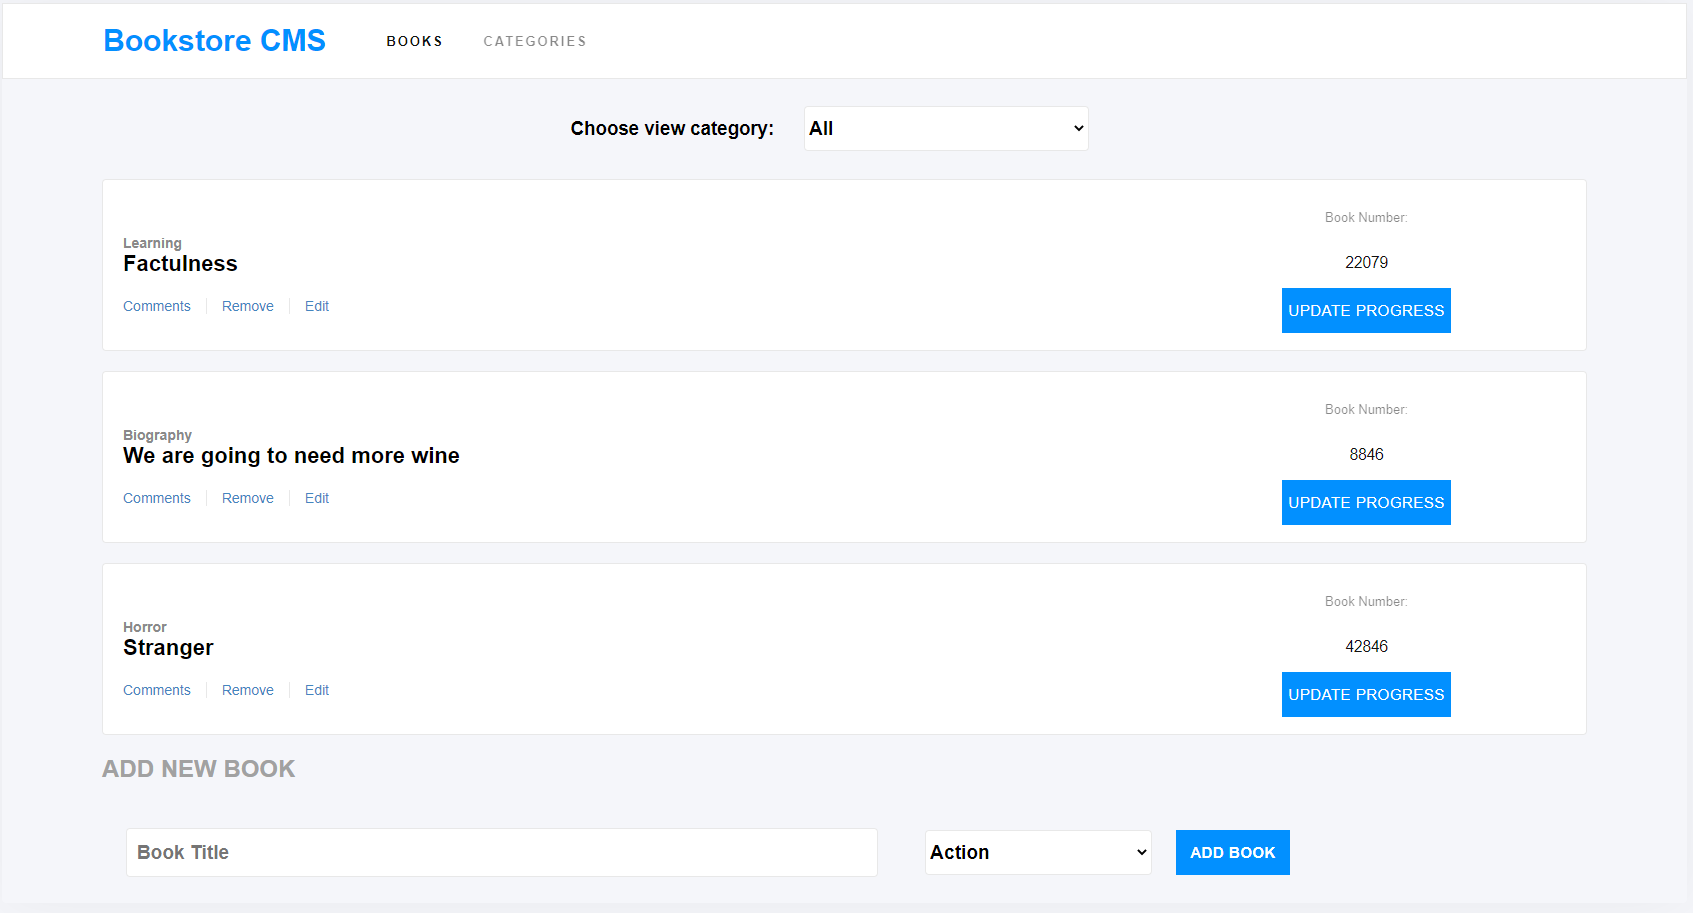
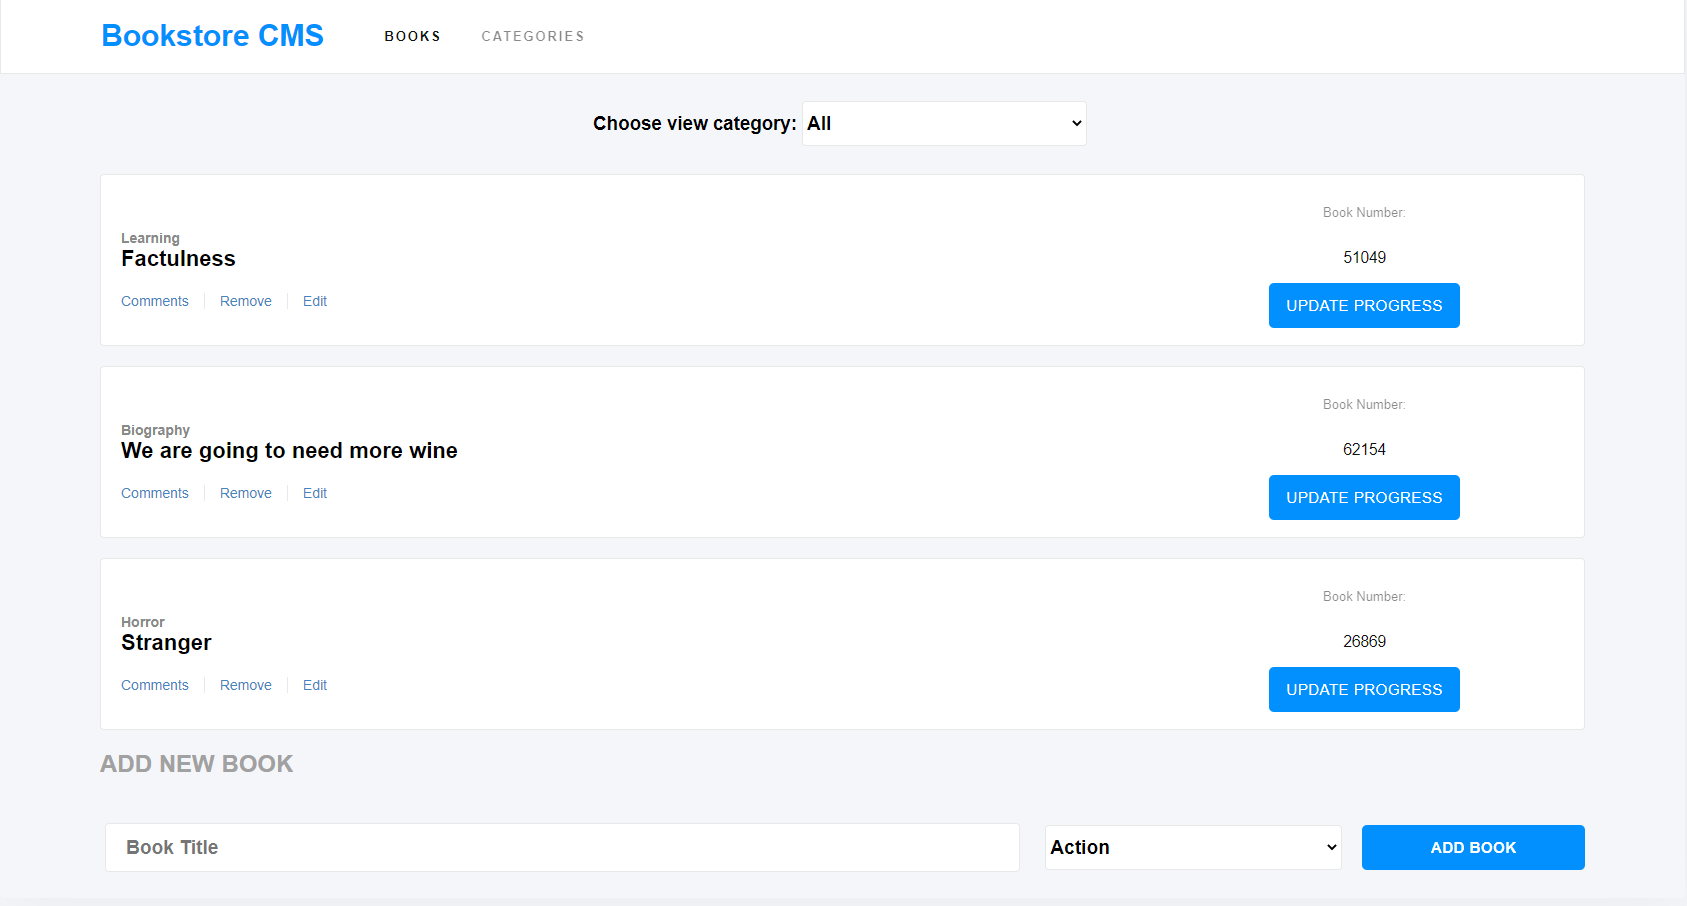
Improve style on add button to increase size & update Readme

diff --git a/src/styles/css/main.css b/src/styles/css/main.css
@@ -144,7 +144,6 @@ body {
 }
 
 .form-input {
-  width: 80%;
   height: 10vh;
   display: flex;
   color: #fefefe;
@@ -159,7 +158,7 @@ body {
 .drop-down,
 .book-input {
   height: 45px;
-  margin: 0 2%;
+  margin: 0 5px;
   font-size: larger;
   font-weight: bolder;
   border-radius: 4px;
@@ -168,8 +167,8 @@ body {
 }
 
 #book-input-field {
-  width: 65%;
-  padding-left: 10px;
+  width: 60%;
+  padding-left: 20px;
 }
 
 #chose-category {
@@ -177,7 +176,9 @@ body {
 }
 
 #add-book {
-  width: 10%;
+  margin: 0;
+  width: 15%;
+  padding: 0;
   font-weight: bold;
 }
 
@@ -201,8 +202,10 @@ button {
   width: auto;
   height: 45px;
   border: none;
+  border-radius: 5px;
   color: #fff;
   font-size: 15px;
+  padding: 0 4%;
   font-weight: 300;
   text-align: center;
   letter-spacing: 0.5px;

diff --git a/src/styles/scss/main.scss b/src/styles/scss/main.scss
@@ -144,7 +144,6 @@ body {
 }
 
 .form-input {
-  width: 80%;
   height: 10vh;
   display: flex;
   color: #fefefe;
@@ -159,7 +158,7 @@ body {
 .drop-down,
 .book-input {
   height: 45px;
-  margin: 0 2%;
+  margin: 0 5px;
   font-size: larger;
   font-weight: bolder;
   border-radius: 4px;
@@ -168,8 +167,8 @@ body {
 }
 
 #book-input-field {
-  width: 65%;
-  padding-left: 10px;
+  width: 60%;
+  padding-left: 20px;
 }
 
 #chose-category {
@@ -177,7 +176,9 @@ body {
 }
 
 #add-book {
-  width: 10%;
+  margin: 0;
+  width: 15%;
+  padding: 0;
   font-weight: bold;
 }
 
@@ -201,8 +202,10 @@ button {
   width: auto;
   height: 45px;
   border: none;
+  border-radius: 5px;
   color: #fff;
   font-size: 15px;
+  padding: 0 4%;
   font-weight: 300;
   text-align: center;
   letter-spacing: 0.5px;

diff --git a/src/containers/BooksForm.js b/src/containers/BooksForm.js
@@ -72,7 +72,7 @@ const BooksForm = ({ createBook }) => {
           ))}
         </select>
         <button id="add-book" className="blue-button" type="submit">
-          Add Book
+          add book
         </button>
       </form>
     </div>
